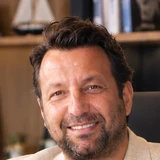
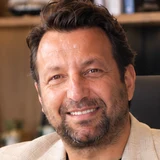
Akasya: Makbule ve Umut kutu resimleri yüz ortada
Claude-Session: https://claude.ai/code/session_01UfiqAUtQKaUeJ8v3bgTHC3

diff --git a/akasya/index.html b/akasya/index.html
@@ -450,8 +450,8 @@ footer a{text-decoration:none;color:#fff}
     <h2>Makbule &amp; Umut <em class="s">Tokkuş.</em></h2>
     <p class="sub">RE/MAX Doğuş'un brokerları ve ofis sahipleri. Akasya Acıbadem'deki satış ve kiralama işlerinizi baştan sona kendimiz yürütüyoruz.</p>
     <div class="kisiler">
-      <div class="kisi"><div class="ft"><img src="img/makbule.webp?v=3" alt="Makbule Tokkuş" loading="lazy"></div><div><b>Makbule Tokkuş</b><small>Broker / Ofis Sahibi · RE/MAX Doğuş</small><div class="kb"><a class="btn dolu" href="tel:+905324781331">0532 478 13 31</a><a class="btn bos" href="https://wa.me/902163151515?text=Merhaba%2C%20akasyaburada.com%27dan%20yaz%C4%B1yorum.%20Akasya%20Ac%C4%B1badem%20hakk%C4%B1nda%20bilgi%20almak%20istiyorum." target="_blank" rel="noopener">WhatsApp</a></div></div></div>
-      <div class="kisi"><div class="ft"><img src="img/umut.webp?v=3" alt="Umut Tokkuş" loading="lazy"></div><div><b>Umut Tokkuş</b><small>Broker / Ofis Sahibi · RE/MAX Doğuş</small><div class="kb"><a class="btn dolu" href="tel:+905324724148">0532 472 41 48</a><a class="btn bos" href="https://wa.me/902163151515?text=Merhaba%2C%20akasyaburada.com%27dan%20yaz%C4%B1yorum.%20Akasya%20Ac%C4%B1badem%20hakk%C4%B1nda%20bilgi%20almak%20istiyorum." target="_blank" rel="noopener">WhatsApp</a></div></div></div>
+      <div class="kisi"><div class="ft"><img src="img/makbule.webp?v=4" alt="Makbule Tokkuş" loading="lazy"></div><div><b>Makbule Tokkuş</b><small>Broker / Ofis Sahibi · RE/MAX Doğuş</small><div class="kb"><a class="btn dolu" href="tel:+905324781331">0532 478 13 31</a><a class="btn bos" href="https://wa.me/902163151515?text=Merhaba%2C%20akasyaburada.com%27dan%20yaz%C4%B1yorum.%20Akasya%20Ac%C4%B1badem%20hakk%C4%B1nda%20bilgi%20almak%20istiyorum." target="_blank" rel="noopener">WhatsApp</a></div></div></div>
+      <div class="kisi"><div class="ft"><img src="img/umut.webp?v=4" alt="Umut Tokkuş" loading="lazy"></div><div><b>Umut Tokkuş</b><small>Broker / Ofis Sahibi · RE/MAX Doğuş</small><div class="kb"><a class="btn dolu" href="tel:+905324724148">0532 472 41 48</a><a class="btn bos" href="https://wa.me/902163151515?text=Merhaba%2C%20akasyaburada.com%27dan%20yaz%C4%B1yorum.%20Akasya%20Ac%C4%B1badem%20hakk%C4%B1nda%20bilgi%20almak%20istiyorum." target="_blank" rel="noopener">WhatsApp</a></div></div></div>
     </div>
     <div class="adim">
       <div><i>1</i><p><b>Ücretsiz değerleme</b><span>Dairenizin güncel satış ya da kira fiyatını emsallerle aynı gün iletiyoruz.</span></p></div>
@@ -508,7 +508,7 @@ footer a{text-decoration:none;color:#fff}
   <button class="close" id="dutyClose" aria-label="Kapat">×</button>
   <span class="tag">Akasya'da size özel</span>
   <div class="row">
-    <div class="yuzler"><img src="img/makbule-yuz.webp?v=3" alt="Makbule Tokkuş"><img src="img/umut-yuz.webp?v=3" alt="Umut Tokkuş"></div>
+    <div class="yuzler"><img src="img/makbule-yuz.webp?v=4" alt="Makbule Tokkuş"><img src="img/umut-yuz.webp?v=4" alt="Umut Tokkuş"></div>
     <div class="who"><b>Makbule ve Umut Tokkuş'a ulaşın</b><small>RE/MAX Doğuş brokerları</small></div>
   </div>
   <div class="acts">

diff --git a/akasya/hakkimizda.html b/akasya/hakkimizda.html
@@ -374,7 +374,7 @@ footer a{text-decoration:none;color:#fff}
   </div>
 
   <section class="pr">
-    <div class="pf"><img src="img/makbule-portre.webp?v=2" alt="Makbule Tokkuş, RE/MAX Doğuş broker ve ofis sahibi"></div>
+    <div class="pf"><img src="img/makbule-portre.webp?v=3" alt="Makbule Tokkuş, RE/MAX Doğuş broker ve ofis sahibi"></div>
     <div>
       <span class="unv">Broker / Ofis Sahibi · RE/MAX Doğuş</span>
       <h2>Makbule Tokkuş</h2>
